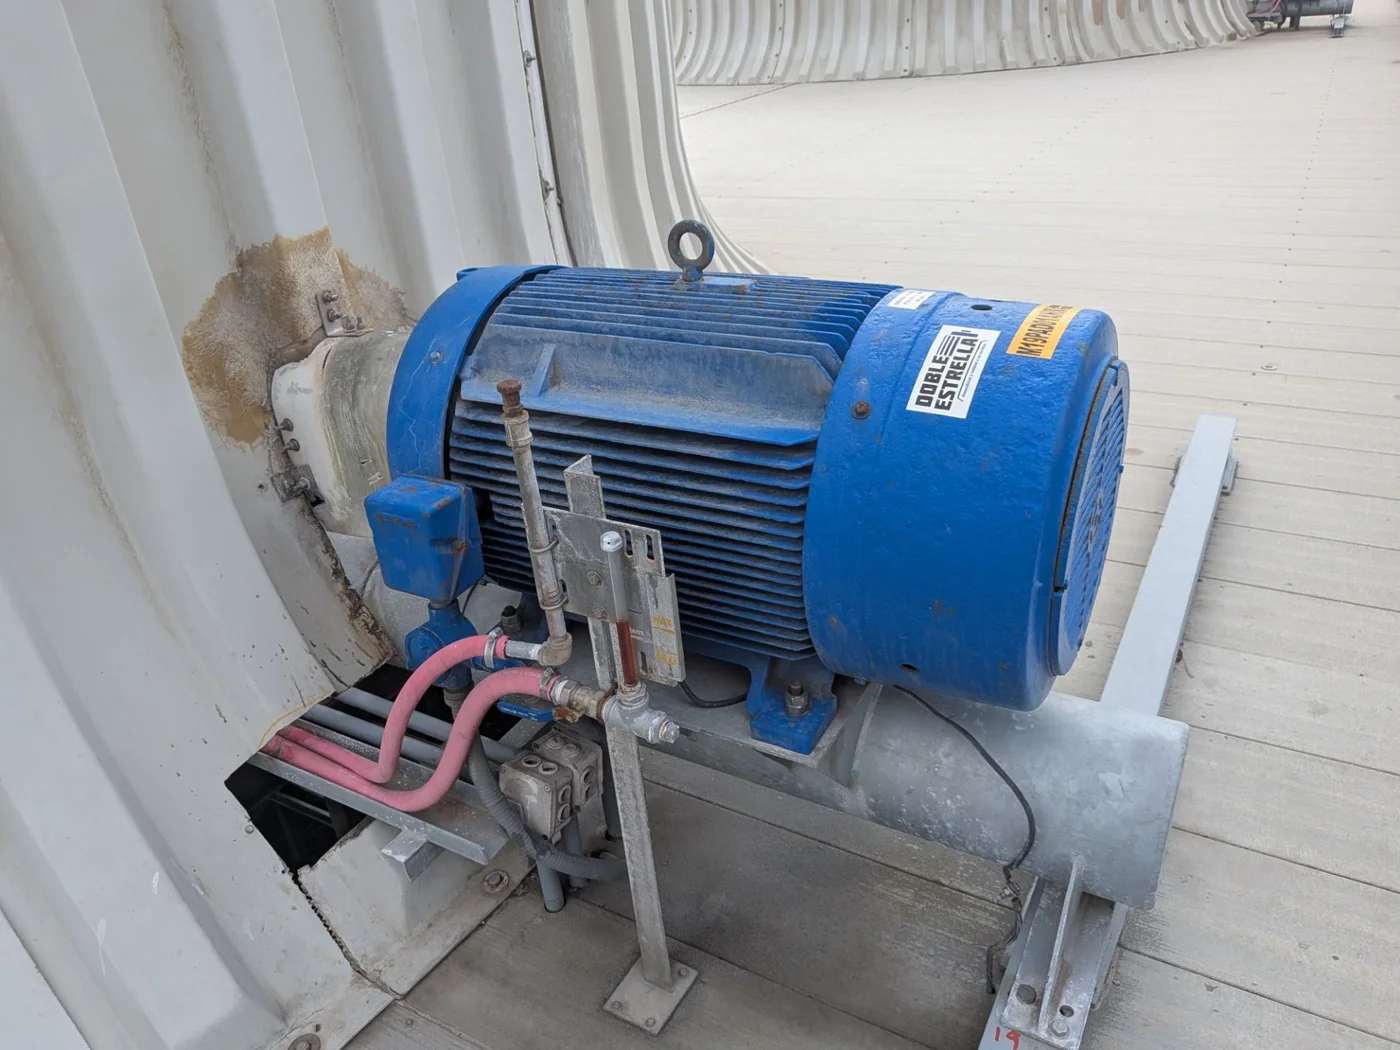
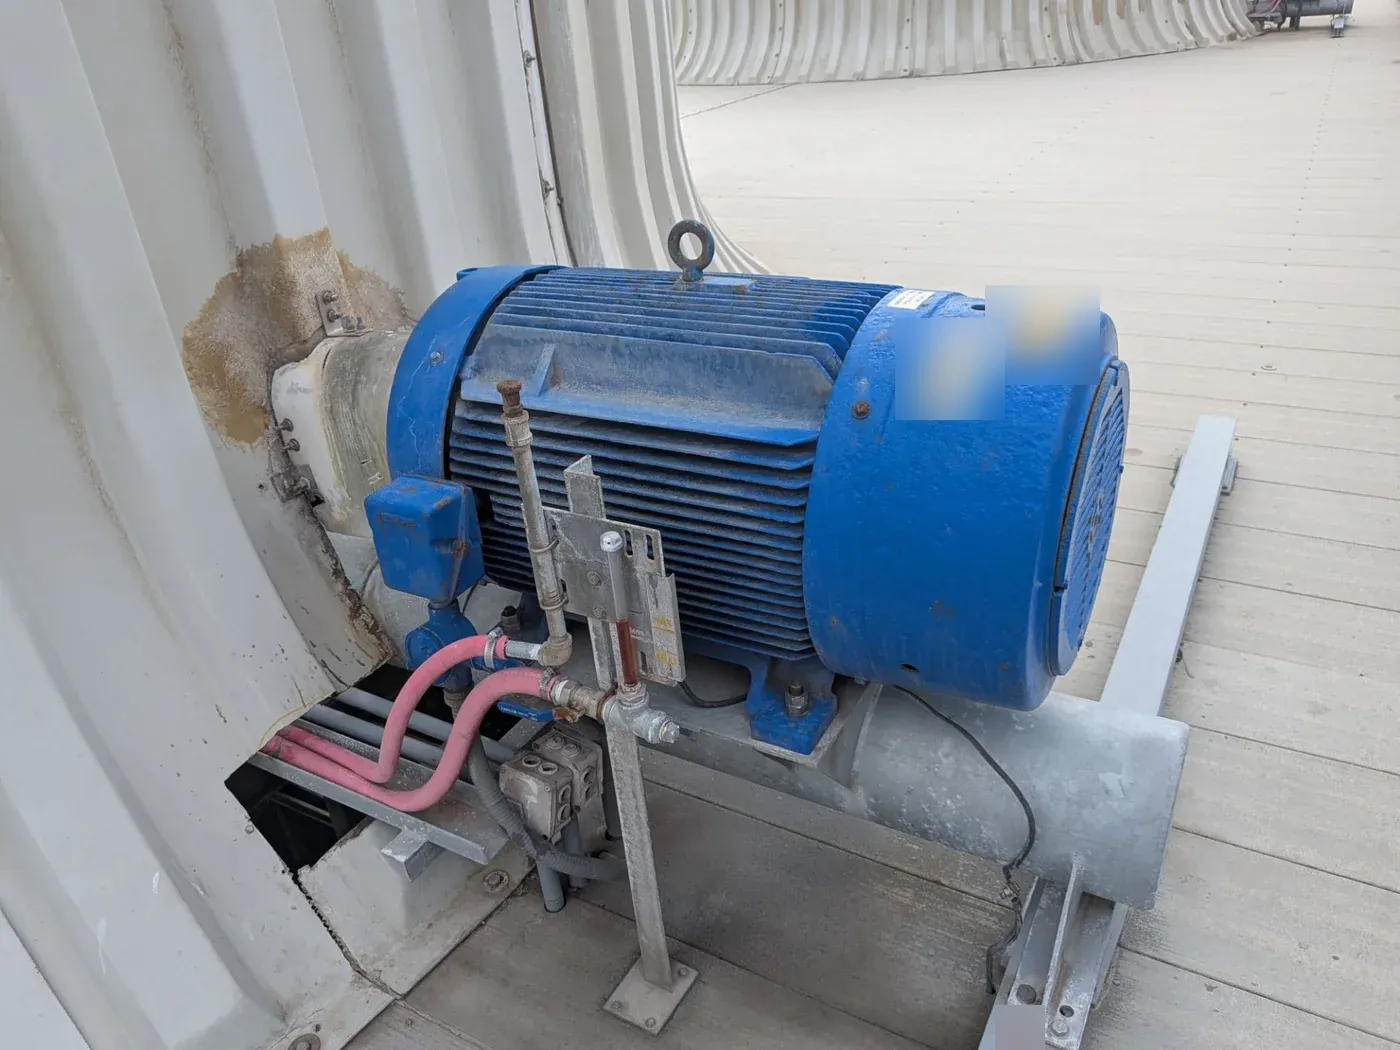
Diagnóstico integral: ficha de la máquina en una sola tarjeta
Foto, qué vio cada técnica, diagnóstico y qué hacer con su prioridad;
sin pasos numerados, cifras ni hallazgos repetidos. Clave del equipo y
etiqueta del taller difuminadas en la foto.

Changed region(s): [[0.6143, 0.2743, 0.7986, 0.4267], [0.7064, 0.9448, 0.7679, 1.0]]

diff --git a/components/organisms/HojaIntegral.tsx b/components/organisms/HojaIntegral.tsx
@@ -5,9 +5,9 @@ import type { ServiceHojaIntegral } from "@/types/servicio";
 
 /**
  * HojaIntegral
- * La ficha de una máquina en el informe integral, contada en cuatro pasos
- * que se leen de arriba abajo: cómo está, qué vio cada técnica, qué se
- * encontró y qué hacer.
+ * La ficha de una máquina en el informe integral, en una sola tarjeta: la
+ * máquina con su estado, qué vio cada técnica, el diagnóstico que sale de
+ * cruzarlas y qué hacer.
  *
  * Por qué así. La primera versión reproducía la hoja del PDF de IDAP con
  * sus tablas de lecturas; era fiel y era demasiado. La segunda la recortó
@@ -18,6 +18,10 @@ import type { ServiceHojaIntegral } from "@/types/servicio";
  * encima, tres cifras de condición, las cuatro técnicas como tarjetas con
  * su ícono y una línea de lo que vio cada una, los hallazgos como tarjetas
  * y la acción como cierre destacado.
+ *
+ * La tercera versión quita los pasos numerados, las tres cifras de
+ * condición y las tarjetas de hallazgos: repetían lo mismo con otras
+ * palabras. Queda un diagnóstico de dos líneas y la acción con su prioridad.
  *
  * Datos reales de una hoja de agosto de 2026, con la planta y la clave del
  * equipo omitidas. `bloques` (las lecturas por disciplina) queda en el
@@ -56,20 +60,10 @@ function Chip({ clave: k, texto, grande }: { clave: string; texto: string; grand
   );
 }
 
-function Paso({ n, children }: { n: number; children: React.ReactNode }) {
-  return (
-    <p className="flex items-center gap-3 text-[11px] font-bold uppercase tracking-widest text-tertiary">
-      <span className="flex h-6 w-6 items-center justify-center rounded-sm bg-primary text-[11px] text-secondary" aria-hidden="true">
-        {n}
-      </span>
-      {children}
-    </p>
-  );
-}
-
 export default function HojaIntegral({ hoja, paso }: Props) {
   const estadoActual = hoja.estado[0];
   const c = nivel(estadoActual?.clave ?? "bueno");
+  const prioridad = hoja.estado.find((e) => /prioridad/i.test(e.k));
 
   return (
     <section className="w-full bg-gray-50 py-12 lg:py-20">
@@ -81,107 +75,72 @@ export default function HojaIntegral({ hoja, paso }: Props) {
         </div>
 
         <article className="overflow-hidden rounded-sm bg-white shadow-2xl ring-1 ring-black/10">
-          {/* 1. Cómo está: la foto con el estado encima y tres cifras */}
-          <div className="grid grid-cols-1 lg:grid-cols-[minmax(0,1.1fr)_minmax(0,1fr)]">
-            <div className="relative aspect-[4/3] lg:aspect-auto lg:min-h-[22rem]">
-              <Image src={hoja.equipo.foto} alt={hoja.equipo.alt} fill sizes="(min-width: 1024px) 50vw, 100vw" className="object-cover" />
+          <div className="grid grid-cols-1 lg:grid-cols-[minmax(0,0.85fr)_minmax(0,1.15fr)]">
+            {/* La máquina: foto con su estado y su nombre */}
+            <div className="relative aspect-[16/10] sm:aspect-[4/3] lg:aspect-auto lg:min-h-[24rem]">
+              <Image src={hoja.equipo.foto} alt={hoja.equipo.alt} fill sizes="(min-width: 1024px) 40vw, 100vw" className="object-cover" />
               <div className="absolute inset-x-0 bottom-0 bg-gradient-to-t from-primary/90 to-primary/0 p-5 pt-16 lg:p-6">
-                <p className="text-[11px] font-bold uppercase tracking-widest text-secondary">Informe integral · ficha de la máquina</p>
+                <p className="text-[11px] font-bold uppercase tracking-widest text-secondary">Ficha de la máquina</p>
                 <p className="mt-1 text-xl font-extrabold leading-tight text-white lg:text-2xl">{hoja.equipo.nombre}</p>
                 <p className="mt-1 text-xs text-white/70">{hoja.equipo.datos.map((d) => d.v).join(" · ")}</p>
               </div>
               {estadoActual && (
-                <span
-                  className={`absolute left-4 top-4 rounded-full px-3.5 py-1.5 text-xs font-bold uppercase tracking-wider shadow-lg ${c.chip}`}
-                >
+                <span className={`absolute left-4 top-4 rounded-full px-3.5 py-1.5 text-xs font-bold uppercase tracking-wider shadow-lg ${c.chip}`}>
                   {estadoActual.v}
                 </span>
               )}
             </div>
 
-            <div className="flex flex-col justify-center p-5 lg:p-8">
-              <Paso n={1}>Cómo está</Paso>
-              <div className="mt-4 grid grid-cols-3 gap-3">
-                {hoja.estado.map((e) => {
-                  const n = nivel(e.clave);
+            {/* Qué vio cada técnica y el diagnóstico que sale de cruzarlas */}
+            <div className="flex flex-col gap-5 p-5 lg:p-8">
+              <p className="text-[11px] font-bold uppercase tracking-widest text-tertiary">Qué vio cada técnica</p>
+              <ul className="grid grid-cols-1 gap-2.5 sm:grid-cols-2">
+                {hoja.disciplinas.map((d) => {
+                  const n = nivel(d.clave);
+                  const trazo = ICONO[clave(d.nombre)];
                   return (
-                    <div key={e.k} className={`rounded-sm border-t-4 bg-gray-50 p-3 lg:p-4 ${n.lampara.fondo.replace("bg-", "border-")}`}>
-                      <p className="text-[10px] font-bold uppercase tracking-wider text-tertiary">{e.k}</p>
-                      <p className={`mt-1.5 text-base font-extrabold leading-tight lg:text-lg ${n.lampara.texto}`}>{e.v}</p>
-                    </div>
-                  );
-                })}
-              </div>
-              {hoja.riesgoGlobal && (
-                <p className="mt-4 text-justify text-sm leading-relaxed text-tertiary">
-                  La máquina sigue operando, pero ya tiene una falla identificada y con fecha para atenderla. El riesgo global de sus fallas es{" "}
-                  <span className={`font-bold ${nivel(hoja.riesgoGlobal.clave).lampara.texto}`}>{hoja.riesgoGlobal.texto.toLowerCase()}</span>.
-                </p>
-              )}
-            </div>
-          </div>
-
-          {/* 2. Qué vio cada técnica */}
-          <div className="border-t border-gray-200 px-5 py-6 lg:px-8">
-            <Paso n={2}>Qué vio cada técnica</Paso>
-            <ul className="mt-4 grid grid-cols-2 gap-3 lg:grid-cols-4">
-              {hoja.disciplinas.map((d) => {
-                const n = nivel(d.clave);
-                const trazo = ICONO[clave(d.nombre)];
-                return (
-                  <li key={d.nombre} className="rounded-sm border border-gray-200 p-4">
-                    <div className="flex items-center justify-between gap-2">
-                      <span className={`flex h-9 w-9 items-center justify-center rounded-full ${n.chip}`} aria-hidden="true">
+                    <li key={d.nombre} className="flex gap-3 rounded-sm border border-gray-200 p-3">
+                      <span className={`flex h-8 w-8 shrink-0 items-center justify-center rounded-full ${n.chip}`} aria-hidden="true">
                         {trazo && (
                           <svg viewBox="0 0 16 16" className="h-4 w-4" fill="none" stroke="currentColor" strokeWidth={1.5} strokeLinecap="round">
                             <path d={trazo} />
                           </svg>
                         )}
                       </span>
-                      <Chip clave={d.clave} texto={d.estado} />
-                    </div>
-                    <p className="mt-3 text-sm font-extrabold text-primary">{d.nombre}</p>
-                    {d.nota && <p className="mt-1 text-xs leading-relaxed text-tertiary">{d.nota}</p>}
-                  </li>
-                );
-              })}
-            </ul>
+                      <div className="min-w-0">
+                        <div className="flex flex-wrap items-center gap-x-2 gap-y-1">
+                          <p className="text-sm font-extrabold text-primary">{d.nombre}</p>
+                          <Chip clave={d.clave} texto={d.estado} />
+                        </div>
+                        {d.nota && <p className="mt-1 text-xs leading-snug text-tertiary">{d.nota}</p>}
+                      </div>
+                    </li>
+                  );
+                })}
+              </ul>
+
+              {hoja.diagnostico && (
+                <div className={`rounded-sm border-l-4 bg-gray-50 p-4 ${c.lampara.fondo.replace("bg-", "border-")}`}>
+                  <p className="text-[11px] font-bold uppercase tracking-widest text-tertiary">Diagnóstico</p>
+                  <p className="mt-1.5 text-justify text-base font-bold leading-snug text-primary lg:text-lg">{hoja.diagnostico}</p>
+                </div>
+              )}
+            </div>
           </div>
 
-          {/* 3. Qué se encontró */}
-          <div className="border-t border-gray-200 px-5 py-6 lg:px-8">
-            <Paso n={3}>Qué se encontró</Paso>
-            <ul className="mt-4 grid grid-cols-1 gap-3 sm:grid-cols-2">
-              {hoja.hallazgos.map((h) => (
-                <li key={h.texto} className={`rounded-sm border-l-4 bg-gray-50 p-4 ${nivel(h.clave).lampara.fondo.replace("bg-", "border-")}`}>
-                  <div className="flex flex-wrap items-center gap-2">
-                    <Chip clave={h.clave} texto={h.estado} />
-                    <span className="rounded-full bg-white px-2.5 py-0.5 text-[10px] font-bold uppercase tracking-wider text-tertiary ring-1 ring-black/10">
-                      {h.evolucion}
-                    </span>
-                  </div>
-                  <p className="mt-2.5 text-base font-extrabold leading-snug text-primary">{h.texto}</p>
-                  {h.nota && <p className="mt-1 text-justify text-xs leading-relaxed text-tertiary">{h.nota}</p>}
-                </li>
+          {/* Qué hacer, como cierre */}
+          <div className="flex flex-col gap-3 bg-primary px-5 py-5 sm:flex-row sm:items-center sm:justify-between lg:px-8 lg:py-6">
+            <div>
+              <p className="text-[11px] font-bold uppercase tracking-widest text-secondary">Qué hacer</p>
+              {hoja.recomendaciones.map((r) => (
+                <p key={r} className="mt-1 text-justify text-base font-semibold leading-relaxed text-white lg:text-lg">{r}</p>
               ))}
-            </ul>
-          </div>
-
-          {/* 4. Qué hacer */}
-          <div className="border-t border-gray-200 bg-primary px-5 py-6 lg:px-8">
-            <Paso n={4}>
-              <span className="text-white/70">Qué hacer</span>
-            </Paso>
-            <ol className="mt-3 space-y-2">
-              {hoja.recomendaciones.map((r, i) => (
-                <li key={r} className="flex gap-3 text-base leading-relaxed text-white lg:text-lg">
-                  <span className="mt-0.5 w-5 shrink-0 font-extrabold text-secondary" aria-hidden="true">
-                    {i + 1}.
-                  </span>
-                  <span className="text-justify font-semibold">{r}</span>
-                </li>
-              ))}
-            </ol>
+            </div>
+            {prioridad && (
+              <span className="shrink-0 self-start rounded-full bg-secondary px-4 py-1.5 text-xs font-extrabold uppercase tracking-wider text-primary sm:self-center">
+                {prioridad.k.replace(/ de reparación/i, "")}: {prioridad.v}
+              </span>
+            )}
           </div>
 
           <p className="border-t border-gray-200 bg-gray-50 px-5 py-3 text-justify text-xs leading-relaxed text-tertiary lg:px-8">{hoja.nota}</p>

diff --git a/types/servicio.ts b/types/servicio.ts
@@ -450,6 +450,8 @@ export interface ServiceHojaIntegral {
   disciplinas: { nombre: string; estado: string; clave: string; nota?: string }[];
   hallazgos: { texto: string; estado: string; clave: string; evolucion: string; nota?: string }[];
   riesgoGlobal?: { texto: string; clave: string };
+  /** Lo que sale de cruzar las técnicas, en una o dos líneas. */
+  diagnostico?: string;
   recomendaciones: string[];
   /** Una banda por disciplina: imágenes, tabla de lecturas, rangos de severidad. Opcional: la versión corta no las lleva. */
   bloques?: {
